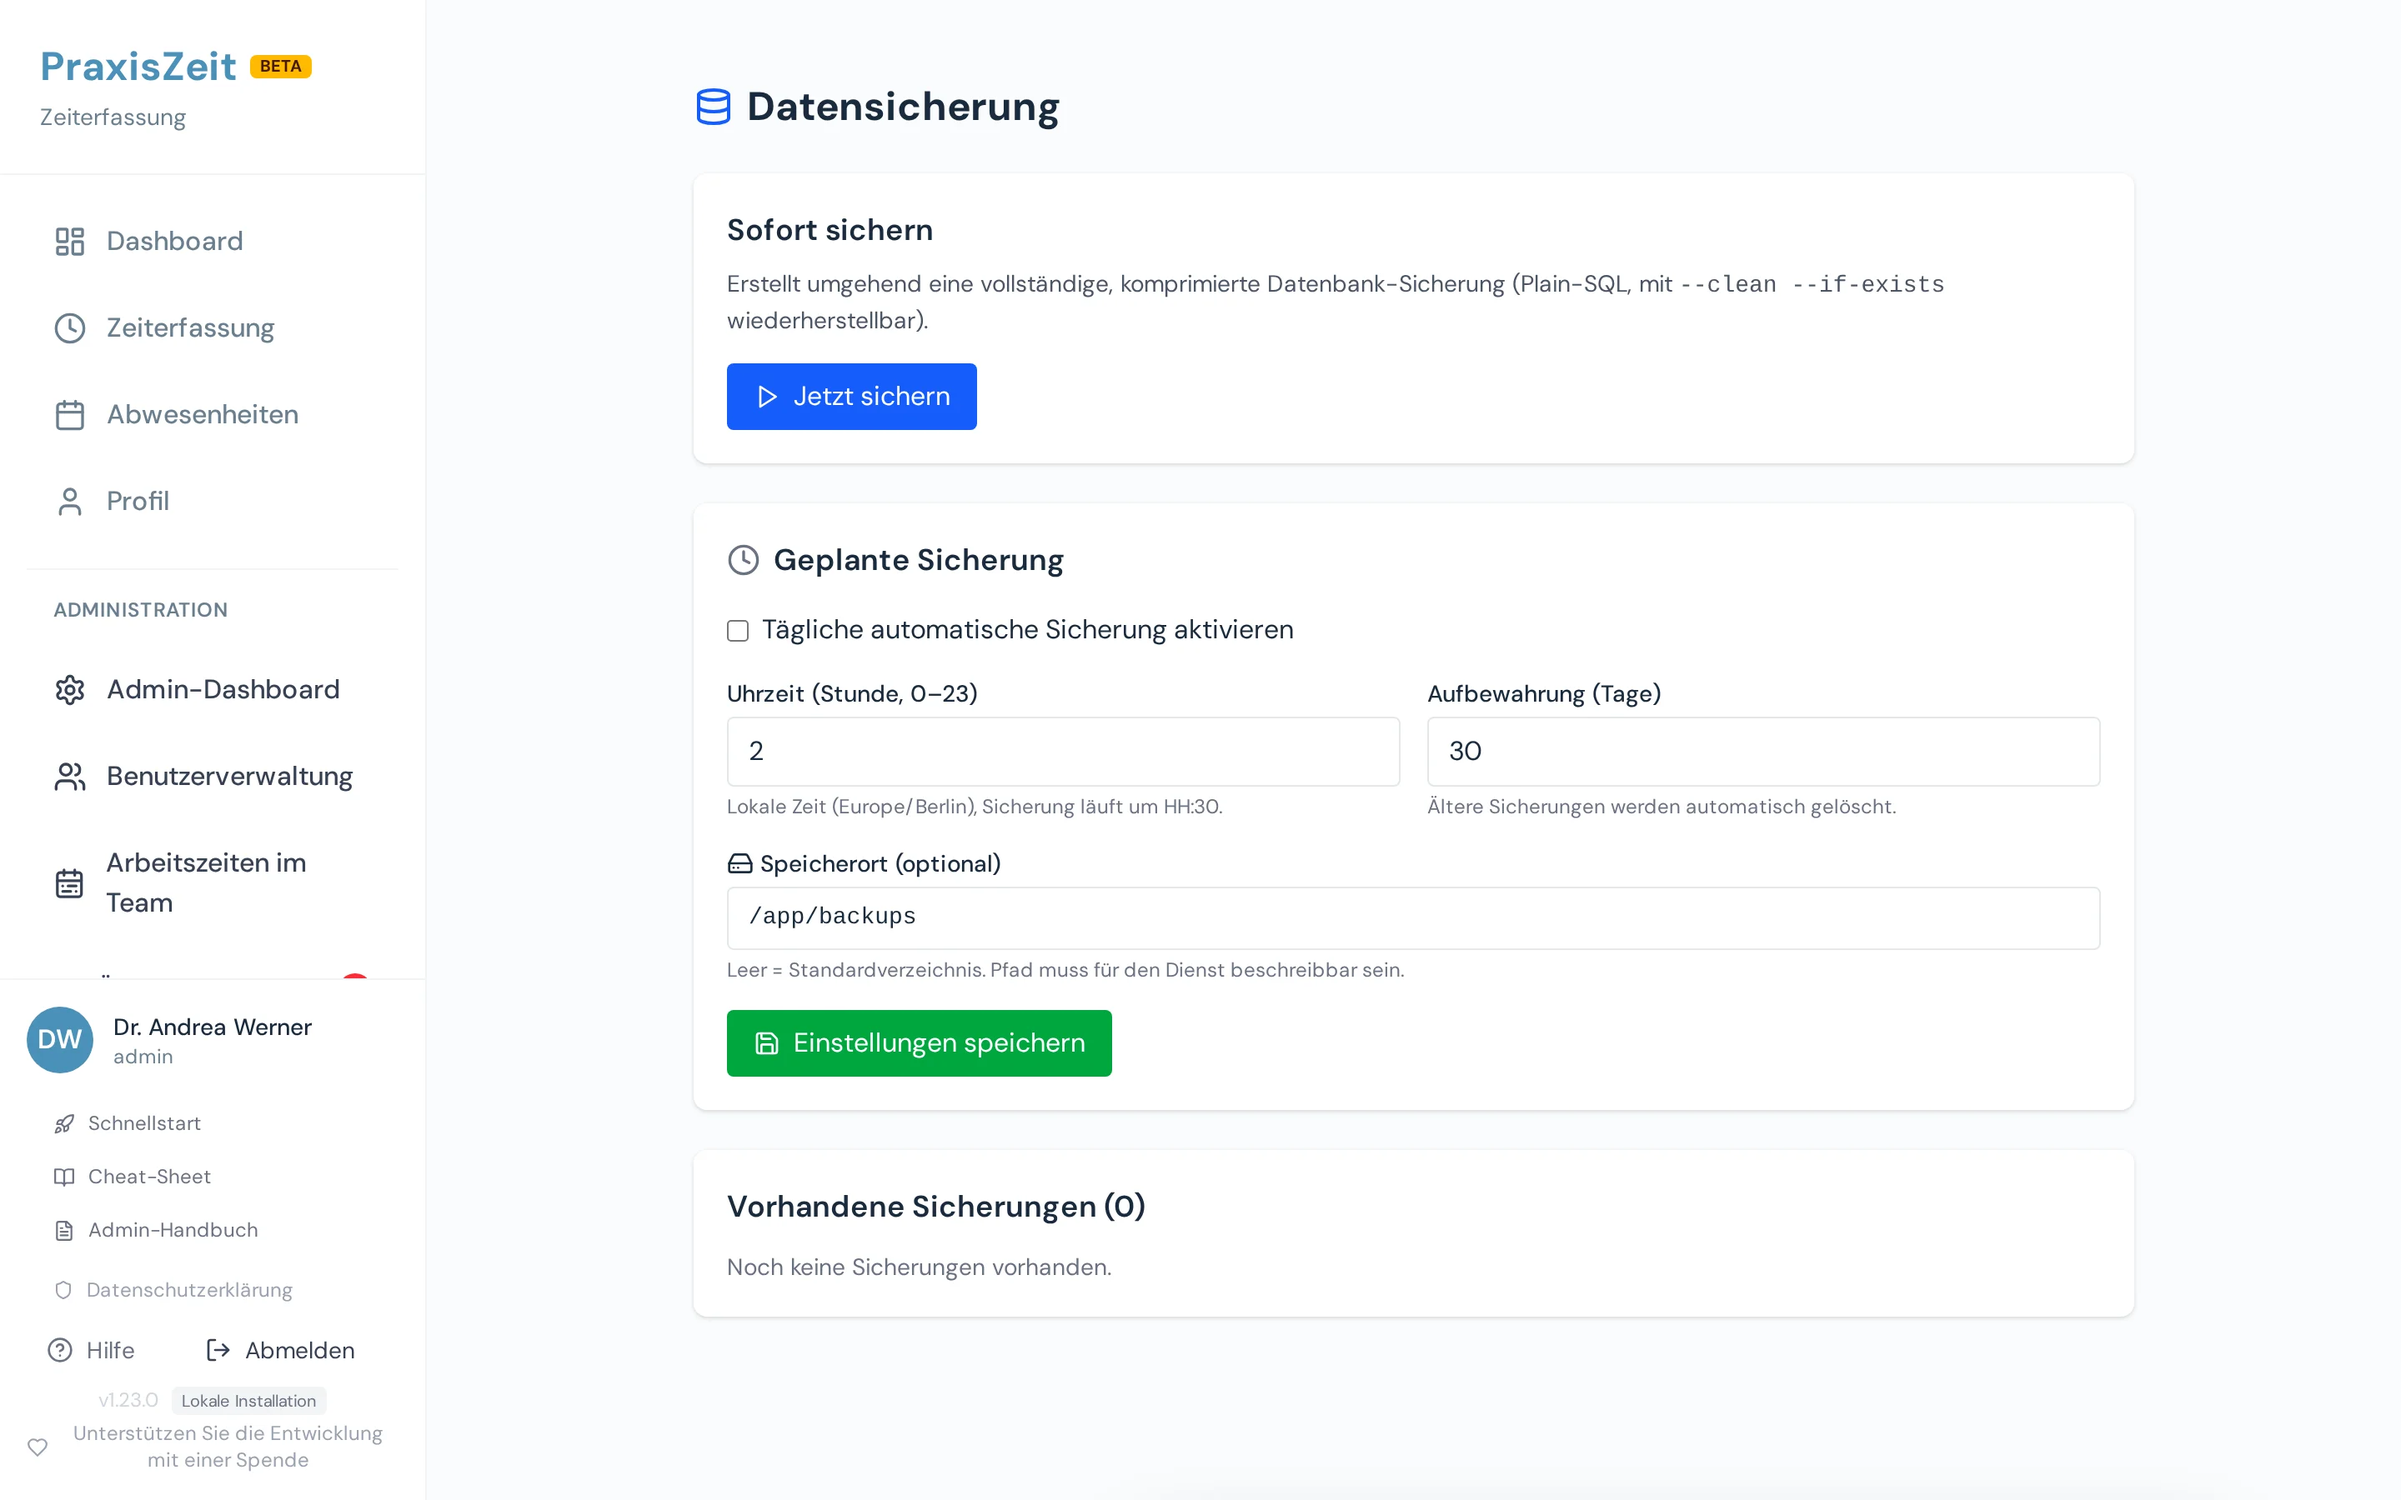
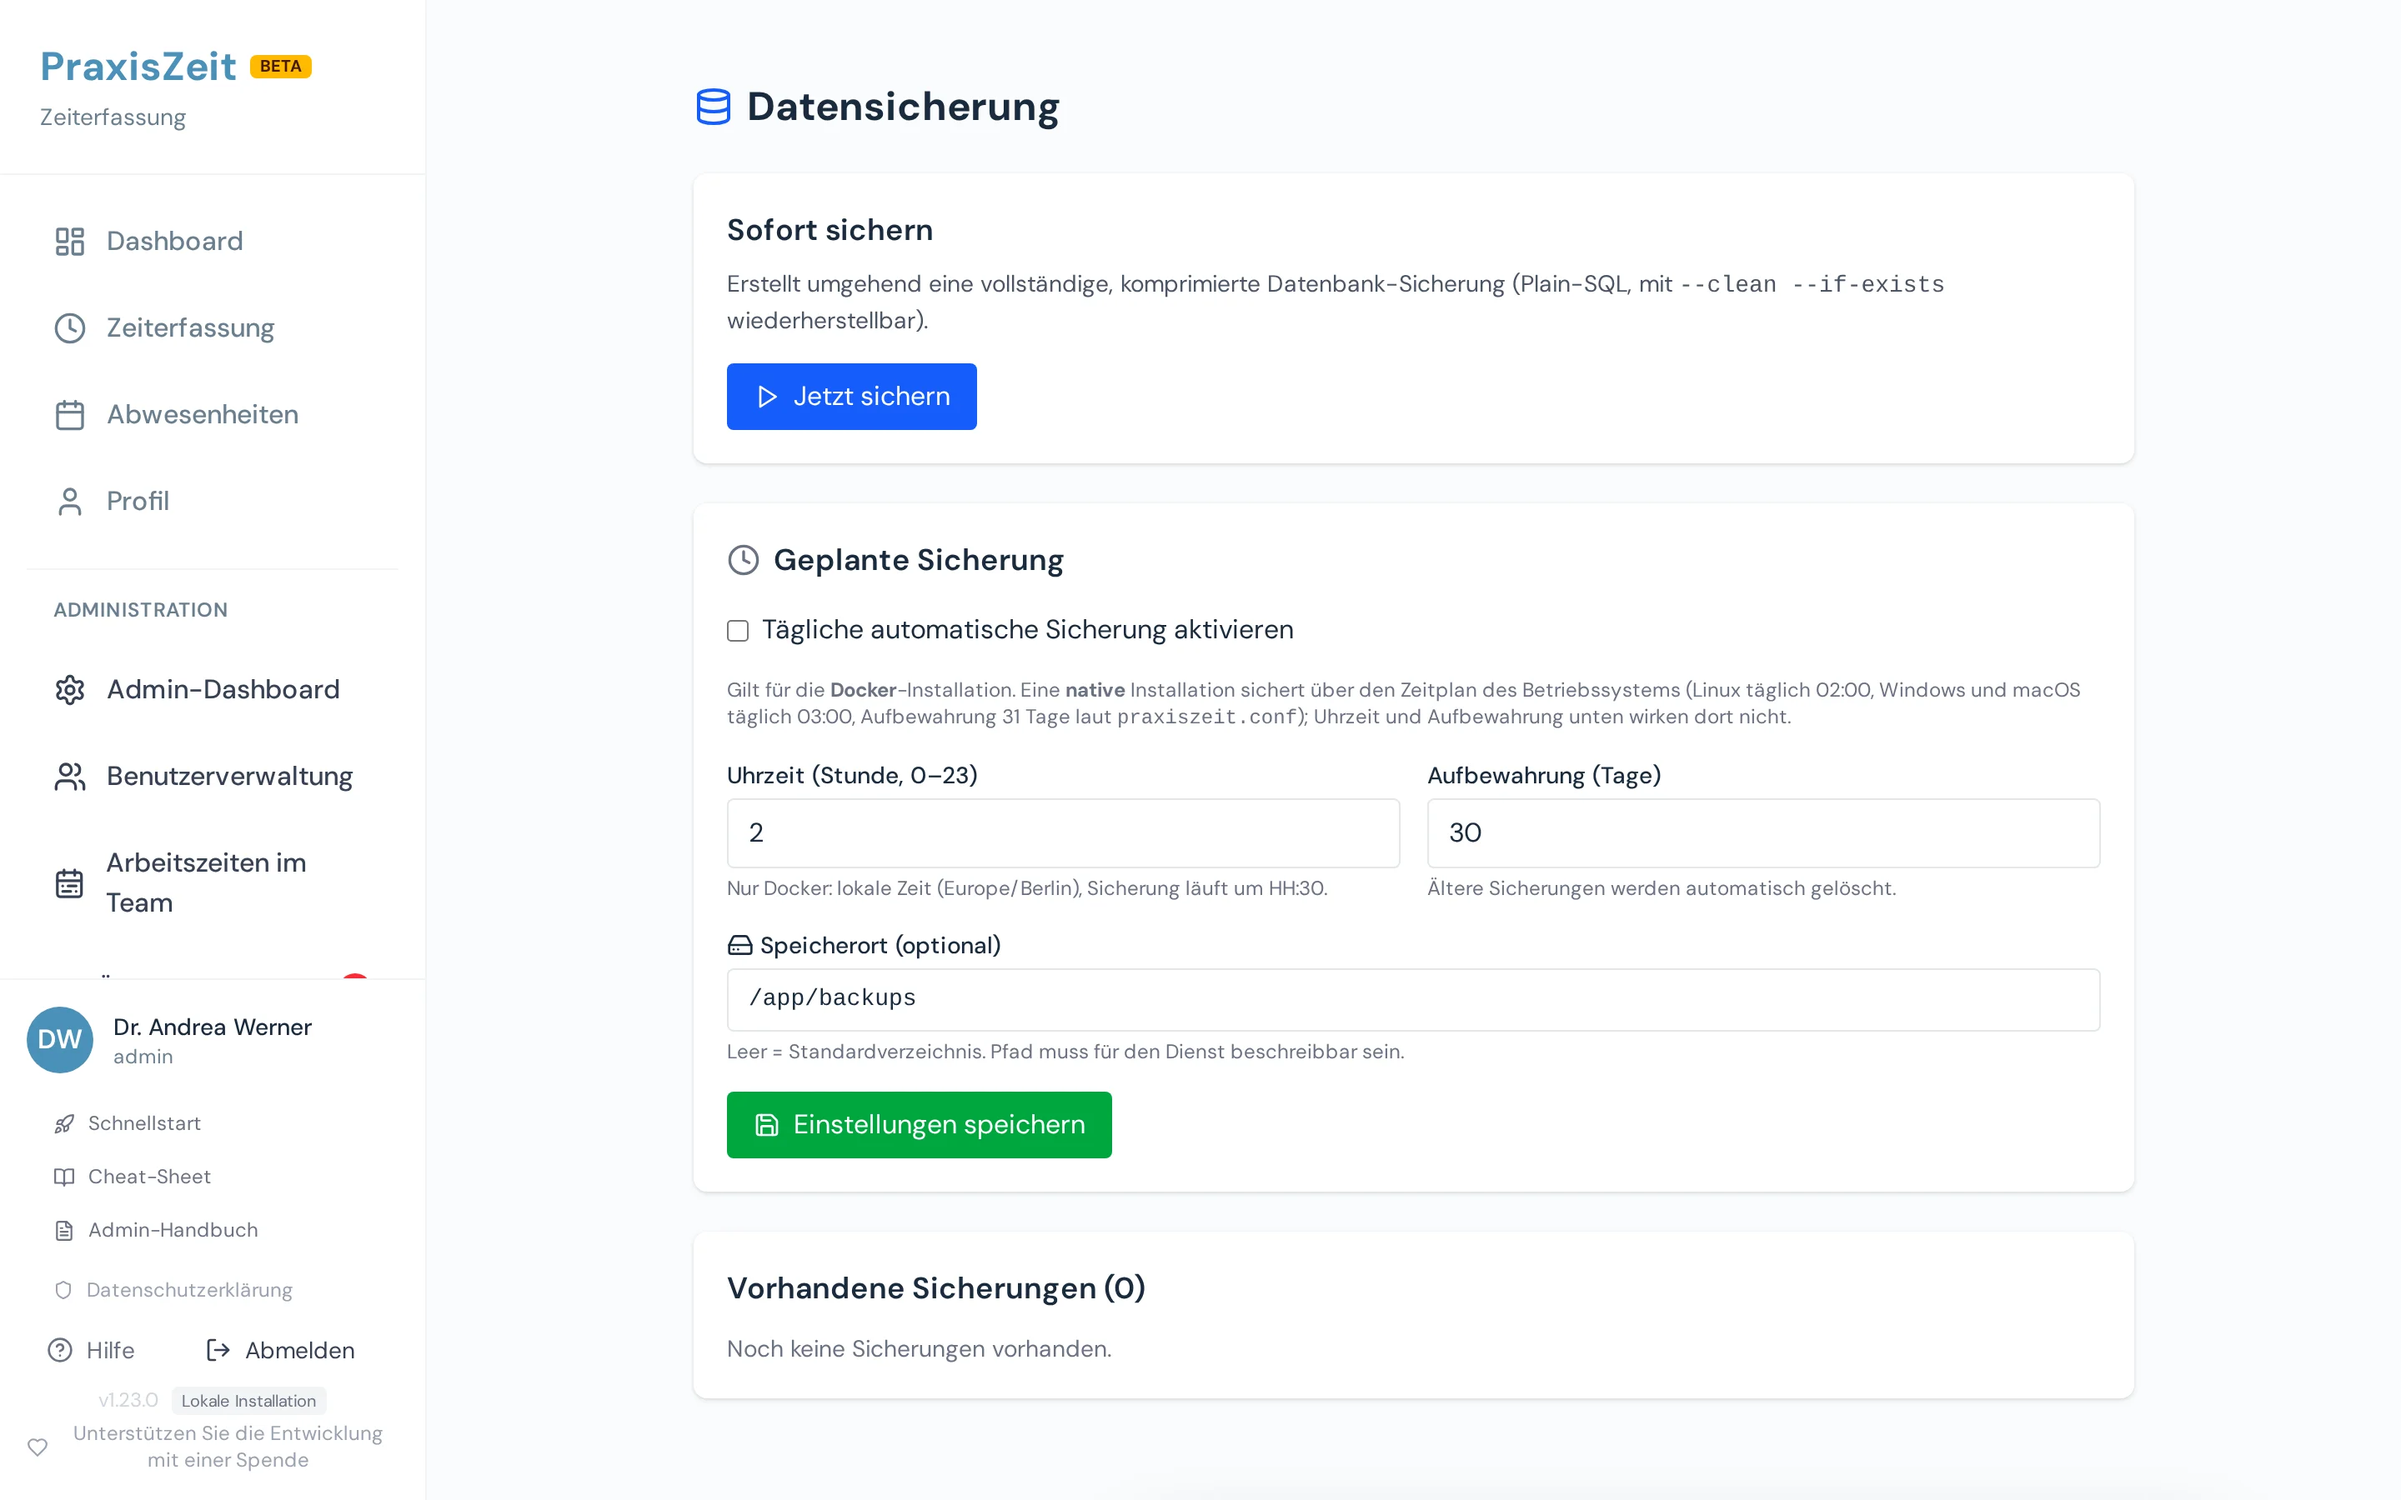
docs(handbuch): Praxisleitung 14-16 nach P5-Fixes, Shots neu, CHANGELOG
Kapitel 14: Statusnamen deutsch, Vermerk der Aufbewahrungsfrist-Loeschung;
Kapitel 15: Hinweis zur geplanten Sicherung; Kapitel 16: Mitarbeitende unter
dem Raster (Marker entfaellt, Text als Tipp). Shots pl-schicht-editor und
pl-datensicherung neu aufgenommen.

Changed region(s): [[0.2812, 0.4356, 0.8125, 0.8089], [0.3125, 0.84, 0.4688, 0.9022]]

diff --git a/frontend/src/handbuch/content/praxisleitung.ts b/frontend/src/handbuch/content/praxisleitung.ts
@@ -996,14 +996,13 @@ const shots: ShotDef[] = [
     crop: 'main',
     markers: [
       { n: 1, id: 'neuer-plan', locator: { css: "xpath=//main//label[normalize-space()='Neuer Plan']/.." }, badge: 'left' },
-      // Die Werkzeugleiste läuft bei 1440 px über den Kartenrand hinaus (Papierkorb außerhalb): nur Knöpfe im Fenster markieren.
+      // Die Werkzeugleiste bricht bei Platzmangel um; markiert werden nur die Knöpfe, die der Text erklärt.
       { n: 2, id: 'aktiv', locator: { css: "main button:text-matches('^(Aktiv schalten|Deaktivieren)$')" }, badge: 'left' },
       { n: 3, id: 'bearbeiten', locator: { role: 'button', name: 'Bearbeiten', exact: true, within: 'main' }, badge: 'top' },
       { n: 4, id: 'pdf', locator: { role: 'button', name: 'PDF', exact: true, within: 'main' }, badge: 'top' },
       { n: 5, id: 'woche-tag', locator: { css: "xpath=//main//button[normalize-space()='Woche']/.." }, badge: 'left' },
-      { n: 6, id: 'mitarbeiter', locator: { role: 'heading', name: 'Mitarbeiter', exact: true, within: 'main' }, badge: 'corner' },
     ],
-    alt: 'Schichtplanung, Plan „Wochenplan Praxis“: Werkzeugleiste mit Deaktivieren, Slot, Automatisch füllen, Bearbeiten, PDF und Duplizieren, darunter das Wochenraster und rechts die Mitarbeitenden',
+    alt: 'Schichtplanung, Plan „Wochenplan Praxis“: Werkzeugleiste mit Deaktivieren, Slot, Automatisch füllen, Bearbeiten, PDF und Duplizieren, darunter das Wochenraster',
   },
   {
     id: 'pl-schicht-slot',
@@ -2540,7 +2539,7 @@ export const praxisleitung: Handbook = {
           scene: 'protokoll',
           text:
             'Das **Änderungsprotokoll** hält fest, wer wann an Zeiteinträgen, Abwesenheiten und Verwaltungseinstellungen etwas geändert hat. Es dient als Nachweis nach § 16 Abs. 2 ArbZG. ' +
-            'Im laufenden Betrieb wird das Protokoll nur ergänzt; jede Zeile trägt eine Prüfsumme. Entfernt werden Zeilen nur beim endgültigen Löschen einer Person (Art. 17 DSGVO, selbst protokolliert) und durch die Aufbewahrungsfrist: Protokollzeilen zu Anträgen werden nach 730 Tagen gelöscht. Bei der Anonymisierung einer Person wird Klartext in Notizen ersetzt. Daneben zeigen **Konto-Vorgänge** die sicherheitsrelevanten Handlungen und das **Fehler-Monitoring** technische Störungen.',
+            'Im laufenden Betrieb wird das Protokoll nur ergänzt; jede Zeile trägt eine Prüfsumme. Entfernt werden Zeilen nur beim endgültigen Löschen einer Person (Art. 17 DSGVO, selbst protokolliert) und durch die Aufbewahrungsfrist: Protokollzeilen zu Anträgen werden nach 730 Tagen gelöscht und hinterlassen je betroffener Person einen Vermerk (Quelle „Aufbewahrungsfrist“) mit den entfernten Kettengliedern. Bei der Anonymisierung einer Person wird Klartext in Notizen ersetzt. Daneben zeigen **Konto-Vorgänge** die sicherheitsrelevanten Handlungen und das **Fehler-Monitoring** technische Störungen.',
         },
         {
           kind: 'task',
@@ -2644,7 +2643,7 @@ export const praxisleitung: Handbook = {
           intro: 'Klicken Sie in der Navigation auf [[Fehler-Monitoring]]. Die Seite zeigt technische Fehler, die im Betrieb aufgetreten sind.',
           shot: 'pl-fehler-monitoring',
           steps: [
-            { n: 1, text: '[[Aktualisieren]] lädt die Liste und die Zähler neu. Liegen Fehler vor, zeigen Zähler oben die Anzahl je Status (open, ignored, resolved).' },
+            { n: 1, text: '[[Aktualisieren]] lädt die Liste und die Zähler neu. Liegen Fehler vor, zeigen Zähler oben die Anzahl je Status (Offen, Ignoriert, Behoben).' },
             { n: 2, text: 'Die Reiter [[Alle]], [[Offen]], [[Ignoriert]] und [[Behoben]] filtern die Liste. Am Reiter „Offen“ steht die Zahl der offenen Fehler, sobald es welche gibt.' },
             { n: 3, text: 'Die Liste zeigt jeden Fehler als eigene Karte. Gibt es keinen, steht hier „Keine Fehler gefunden“, wie im Bild.' },
           ],
@@ -2706,7 +2705,7 @@ export const praxisleitung: Handbook = {
           shot: 'pl-datensicherung',
           steps: [
             { n: 1, text: '[[Jetzt sichern]] erstellt sofort eine vollständige Sicherung. Sie erscheint danach in der Liste.' },
-            { n: 2, text: 'Haken bei [[Tägliche automatische Sicherung aktivieren]], wenn PraxisZeit täglich selbst sichern soll.' },
+            { n: 2, text: 'Haken bei [[Tägliche automatische Sicherung aktivieren]], wenn PraxisZeit täglich selbst sichern soll. Ein Hinweis unter dem Haken sagt, dass die folgenden Einstellungen für die Docker-Installation gelten und native Installationen über das Betriebssystem sichern.' },
             { n: 3, text: '**Uhrzeit (Stunde, 0–23), nur Docker:** lokale Zeit (Europe/Berlin); die Sicherung läuft um HH:30. Das gilt für die Docker-Installation; nativ sichert der Timer des Betriebssystems (Linux 02:00, Windows und macOS 03:00).' },
             { n: 4, text: '**Aufbewahrung (Tage), nur Docker:** ältere Sicherungen löscht PraxisZeit automatisch. Für § 16 ArbZG sind mindestens 2 Jahre (730 Tage) nötig; die Seite schlägt zunächst 30 Tage vor. Nativ gilt stattdessen retention_days im Abschnitt [backup] der Datei config/praxiszeit.conf (Standard 31 Tage). Sonst zusätzlich Jahresarchive außerhalb des Servers ablegen.' },
             { n: 5, text: '**Speicherort (optional, nur Docker):** leer bedeutet Standardverzeichnis. Der Pfad muss für den Dienst beschreibbar sein.' },
@@ -2867,8 +2866,13 @@ export const praxisleitung: Handbook = {
             { n: 3, text: '[[Bearbeiten]] öffnet die Plan-Einstellungen mit Name, Zeitraum und Freigabe, siehe [Plan freigeben](#schicht-plan-einstellungen).' },
             { n: 4, text: '[[PDF]] erzeugt einen Aushang im Querformat mit einer Tabelle Arbeitsplatz × Wochentag, zum Aushängen am Schwarzen Brett.' },
             { n: 5, text: 'Der Umschalter [[Woche]] / [[Tag]] wechselt zwischen der Wochenansicht und einem einzelnen Wochentag in voller Breite; das ist beim Einrichten übersichtlich. Im Raster ziehen Sie einen Slot per Drag & Drop auf einen anderen Tag oder eine andere Uhrzeit (15-Minuten-Raster); ein Klick auf eine freie Fläche legt einen Slot an, ein Klick auf einen Slot bearbeitet ihn.' },
-            { n: 6, text: 'Rechts stehen die **Mitarbeitenden**. Ziehen Sie eine Person auf einen Slot, um sie zuzuweisen. Unter jedem Namen zeigt die **Auslastung** die zugewiesenen Schichtstunden zur Wochenarbeitszeit, zum Beispiel „15,25 / 17 h“: grün bei ±30 Minuten, gelb bei ±1 Stunde, sonst rot.' },
           ],
+        },
+        {
+          kind: 'tip',
+          tone: 'info',
+          text:
+            'Unter dem Raster (bei sehr breitem Fenster daneben) stehen die **Mitarbeitenden**. Ziehen Sie eine Person auf einen Slot, um sie zuzuweisen. Unter jedem Namen zeigt die **Auslastung** die zugewiesenen Schichtstunden zur Wochenarbeitszeit, zum Beispiel „15,25 / 17 h“: grün bei ±30 Minuten, gelb bei ±1 Stunde, sonst rot.',
         },
         {
           kind: 'table',

diff --git a/CHANGELOG.md b/CHANGELOG.md
@@ -14,6 +14,10 @@
 - **Löschung einer vergangenen Abwesenheit beantragen.** Mitarbeitende konnten eine Abwesenheit eines vergangenen Tages weder löschen noch die Löschung beantragen: „Löschen“ im Journal tat an reinen Abwesenheitstagen nichts, der Link „per Antrag“ im Abwesenheitskalender führte ins Journal. Jetzt steht an der Abwesenheit „Löschung beantragen“ (Kalender und Journal, Begründung Pflicht); die Verwaltung entscheidet über den Antrag. Betriebsferien-Tage ändert weiterhin nur die Verwaltung (ein Antrag dafür wird abgelehnt).
 - **Urlaubsverbrauch alter Buchungen driftet bei ganzen Tagen nicht mehr.** Abwesenheiten von vor 1.9.0 trugen keine Halbtags-Angabe und zählten als „Stunden ÷ heutiges Tagessoll“ – nach einer Arbeitszeit-Änderung verschob sich dadurch der Urlaubsverbrauch (z. B. Vorschau „3 → 3,1 Tage“ ohne betroffene Abwesenheit). Migration 077 kennzeichnet solche Zeilen als ganzen Tag, wo die Stunden genau dem Tagessoll entsprechen; Soll, Saldo und Urlaubsverbrauch ändern sich dabei nicht. Halbe Tage und alle nicht eindeutigen Zeilen bleiben unverändert.
 - **Ein Klick auf Text in einem Dialog lässt den Fokus nicht mehr springen.** In allen Dialogen sprang der Dialog nach oben, sobald man auf Text innerhalb eines Beschriftungs-Elements klickte; im Kasten „Verkürzung“ ließen sich deshalb „Rückwirkend …“ / „Ab heute …“ nur über den Radioknopf wählen. Jetzt wählt auch ein Klick auf den Text die Option.
+- **Schichtplanung: Werkzeugleiste und Wochenraster laufen bei 1440 px nicht mehr über die Karte.** Die Knöpfe (bis „Plan löschen“) brechen um; die Mitarbeitendenliste steht erst bei sehr breiten Fenstern neben dem Raster, sonst darunter, damit der Freitag sichtbar bleibt.
+- **Barrierefreiheit: Dialoge der Schichtplanung und „Vorjahresübernahme“ sind benannte Dialoge** (`role="dialog"`, modal, Name = Überschrift): Slot, Automatisch füllen, Plan-Einstellungen, Plan duplizieren.
+- **Fehler-Monitoring zeigt deutsche Statusnamen** (Offen, Ignoriert, Behoben) auch in den Zählern und der Bestätigung; bisher standen dort „open“, „ignored“, „resolved“.
+- **Datensicherung: Hinweis zur geplanten Sicherung getrennt nach Docker und nativ.** „Sicherung läuft um HH:30“ und die Einstellungen gelten nur für Docker; native Installationen sichern über den Zeitplan des Betriebssystems (Linux 02:00, Windows/macOS 03:00).
 - **Admin-Dashboard nennt den Monat deutsch** („Oktober 2026“ statt „October 2026“) in der Kachel „Monat“ und im Detail-Dialog.
 - **Barrierefreiheit:** Der Plus-Knopf „Neuer Eintrag“ der Zeiterfassung hat auch am Handy einen Namen; der Schalter „Abwesenheitsanträge genehmigungspflichtig“ trägt seine Überschrift als Namen.
 - **Formular „Neue:r Benutzer:in“:** Platzhalter der E-Mail `name@praxis.example` statt einer echten fremden Domain.
